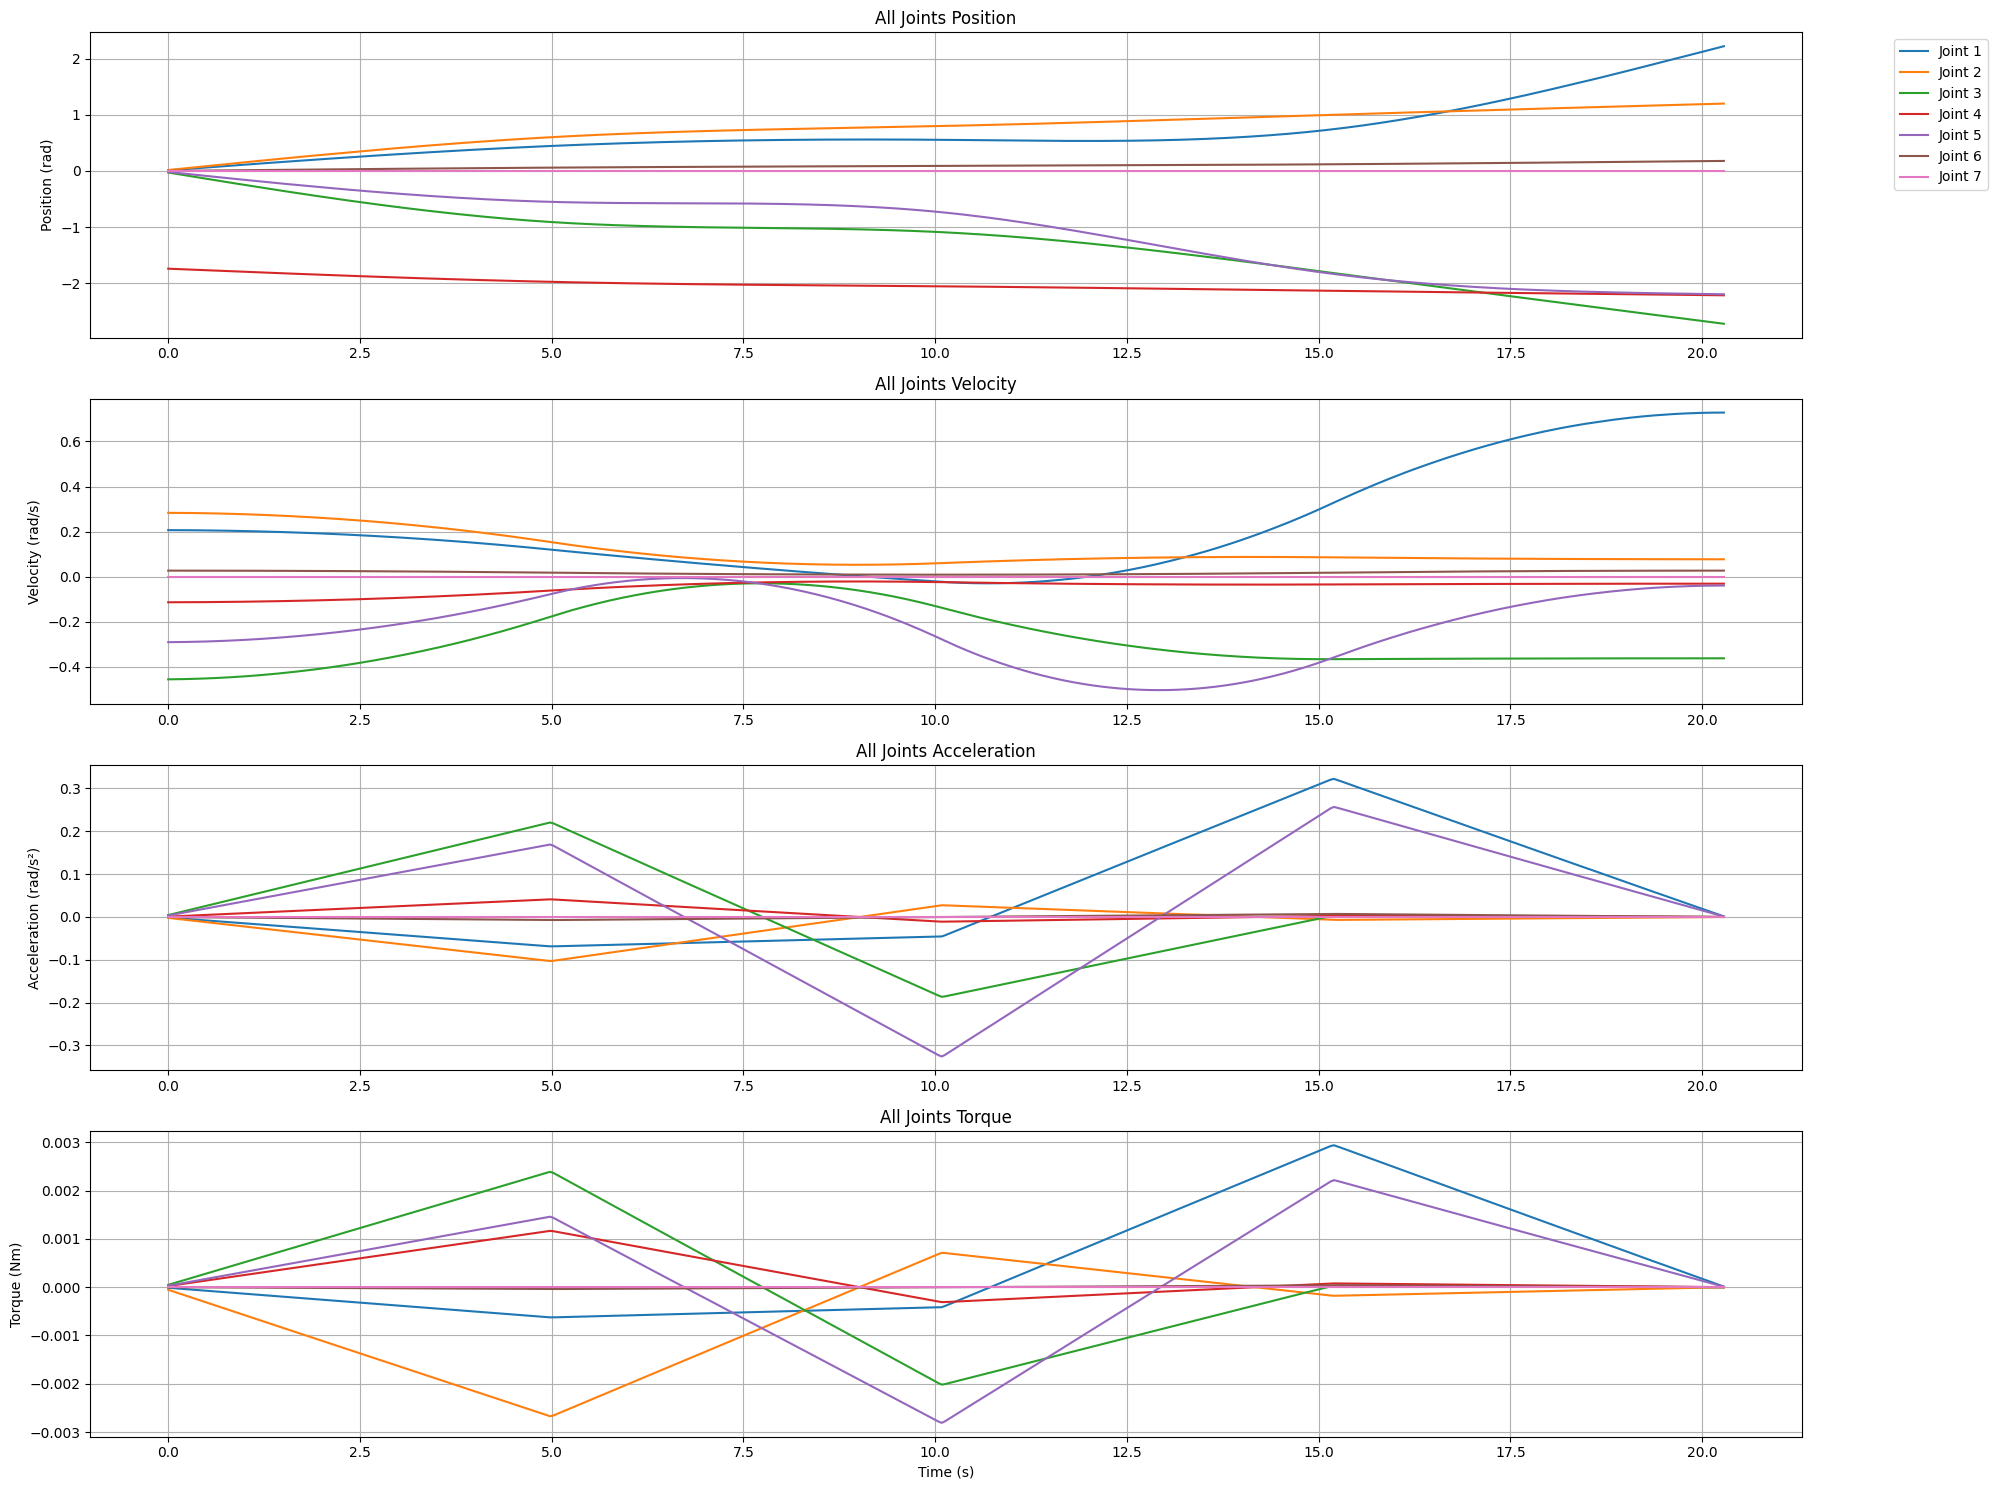
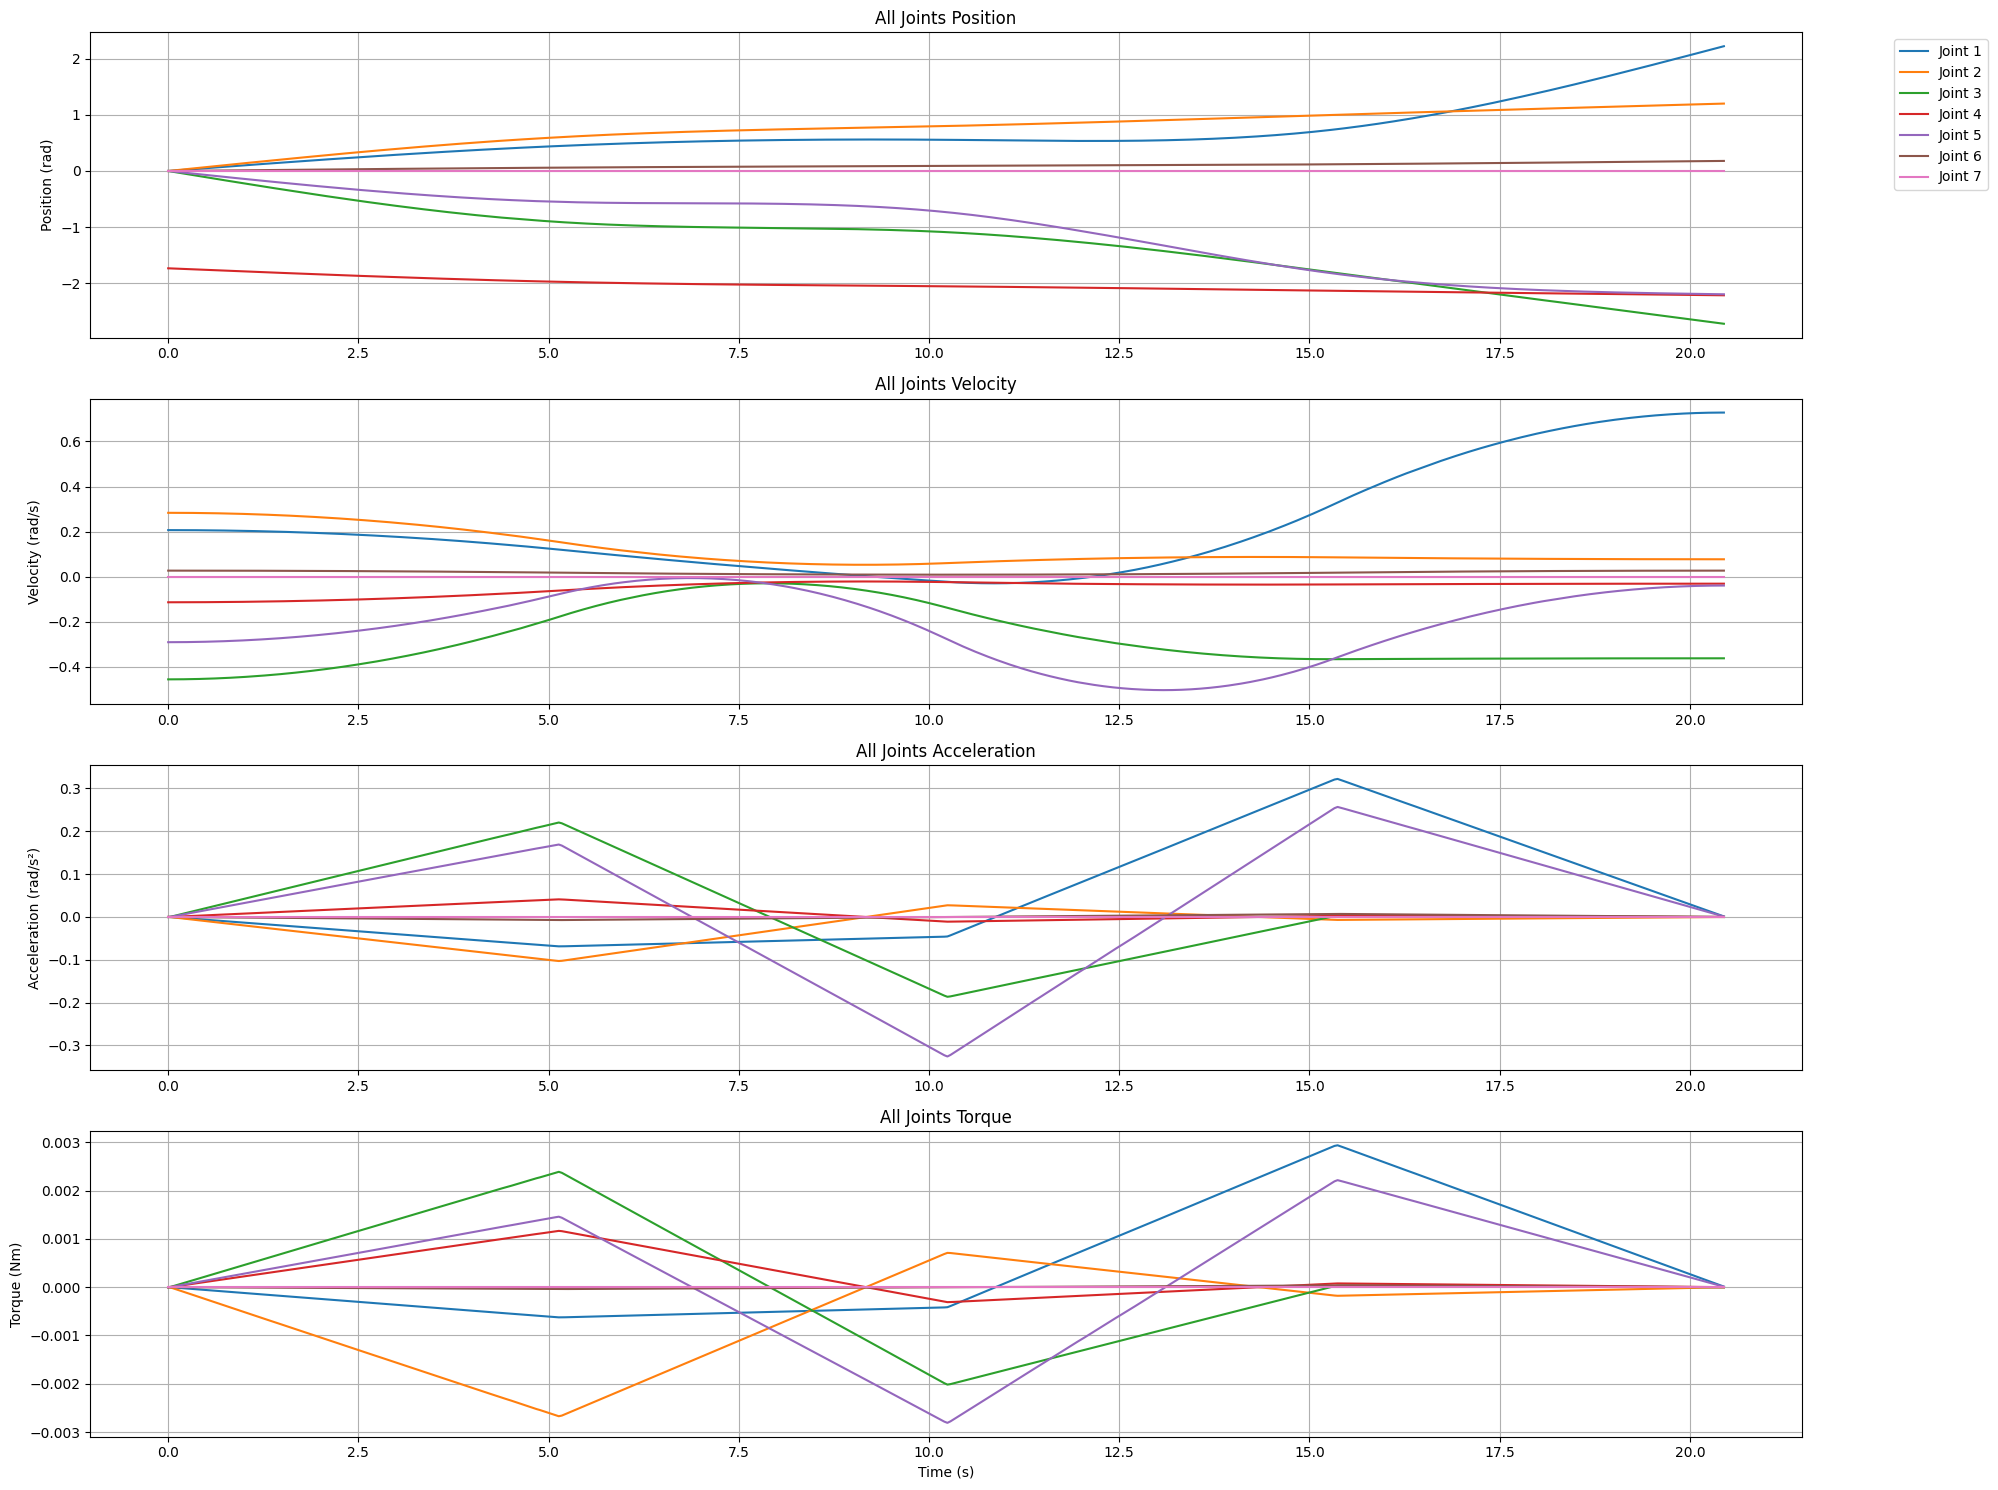
add NSGA-2 method

diff --git a/src/franka_h2/scripts/NSGA-2.py b/src/franka_h2/scripts/NSGA-2.py
@@ -24,6 +24,8 @@ import os
 from fk import cal_fk
 import time
 from ik_geo import franka_IK_EE
+import random
+from collections import defaultdict
 
 class CSI_solver():
     def __init__(self):
@@ -130,6 +132,164 @@ class CSI_solver():
             
         return positions, velocities, t
     
+    def generate_optimized_trajectory(self, q_start, q_end, duration, freq=50):
+        """使用NSGA-II优化生成轨迹"""
+        # NSGA-II参数设置
+        population_size = 50
+        generations = 100
+        crossover_prob = 0.9
+        mutation_prob = 0.1
+        variable_ranges = [ # 各关节速度范围（单位：rad/s）
+        (-2.5, 2.5),    # 关节1
+        (-2.5, 2.5),    # 关节2
+        (-2.5, 2.5),    # 关节3
+        (-2.5, 2.5),    # 关节4
+        (-5.0, 5.0),    # 关节5
+        (-4.0, 4.0),    # 关节6
+        (-5.0, 5.0)     # 关节7
+        ]
+
+        # 目标函数计算
+        def evaluate(individual):
+            """计算单个个体的双目标适应度"""
+            total_smoothness = 0.0
+            total_energy = 0.0
+            T = duration
+
+            # for j in range(7):
+            # 获取关节参数
+            joint_name = self.joint_names
+            params = self.inertia_params[joint_name]
+            I_j = params['inertia_matrix'][2][2]  # 绕Z轴的转动惯量
+            g_j = self.calculate_gravity_torques()[joint_name]
+
+            # 轨迹参数计算
+            delta_q = q_end - q_start
+            v_start = individual
+            
+            # 三次多项式系数计算
+            a2 = (3*delta_q - 2*v_start*T) / T**2
+            a3 = (-2*(delta_q - v_start*T/2)) / T**3
+
+            # 计算平滑性指标（加速度平方积分）
+            integral_acc_sq = 4*a2**2*T + 12*a2*a3*T**2 + 12*a3**2*T**3
+            total_smoothness += integral_acc_sq
+
+            # 计算能耗指标（力矩平方积分）
+            integral_tau_sq = (I_j**2 * integral_acc_sq) + (2*I_j*g_j*(-v_start)) + (g_j**2 * T)
+            total_energy += integral_tau_sq
+
+            return (total_smoothness, total_energy)
+
+        # 遗传算子
+        def crossover(p1, p2):
+            """模拟二进制交叉"""
+            child1, child2 = [], []
+            for i in range(7):
+                beta = np.random.uniform(0.9, 1.1)
+                child1.append(0.5*((1+beta)*p1[i] + (1-beta)*p2[i]))
+                child2.append(0.5*((1-beta)*p1[i] + (1+beta)*p2[i]))
+            return child1, child2
+
+        def mutate(ind):
+            """多项式变异"""
+            mutated = ind.copy()
+            for i in range(7):
+                if random.random() < mutation_prob:
+                    mutated[i] += np.random.normal(0, 0.1)
+                    mutated[i] = np.clip(mutated[i], *variable_ranges[i])
+            return mutated
+
+        # 初始化种群
+        population = [[np.random.uniform(variable_ranges[j][0], variable_ranges[j][1]) for j in range(7)] for _ in range(population_size)]
+
+        # 进化循环
+        for _ in range(generations):
+            # 评估适应度
+            fitness = [evaluate(ind) for ind in population]
+
+            # 非支配排序
+            fronts = []
+            dominated_count = defaultdict(int)
+            dominated_set = defaultdict(list)
+            ranks = {}
+            
+            # 构建支配关系
+            for i, f1 in enumerate(fitness):
+                for j, f2 in enumerate(fitness):
+                    if f1[0] < f2[0] and f1[1] < f2[1]:
+                        dominated_set[i].append(j)
+                        dominated_count[j] += 1
+
+            # 构建前沿
+            current_front = [i for i in range(population_size) if dominated_count[i] == 0]
+            fronts.append(current_front)
+            
+            # 后续前沿
+            next_front = []
+            while current_front:
+                for i in current_front:
+                    for j in dominated_set[i]:
+                        dominated_count[j] -= 1
+                        if dominated_count[j] == 0:
+                            next_front.append(j)
+                fronts.append(next_front)
+                current_front = next_front
+                next_front = []
+
+            # 选择操作（简单截断选择）
+            selected = []
+            for front in fronts:
+                if len(selected) + len(front) <= population_size:
+                    selected.extend(front)
+                else:
+                    remaining = population_size - len(selected)
+                    selected += front[:remaining]
+                    break
+
+            # 生成新种群
+            new_population = [population[i] for i in selected]
+            while len(new_population) < population_size:
+                # 选择父代
+                p1, p2 = random.choices(selected, k=2)
+                # 交叉
+                if random.random() < crossover_prob:
+                    c1, c2 = crossover(population[p1], population[p2])
+                    new_population.extend([c1, c2])
+                # 变异
+                else:
+                    new_population.append(mutate(population[p1]))
+                    new_population.append(mutate(population[p2]))
+            population = new_population[:population_size]
+
+        # 选择最优解（取第一个前沿的第一个解）
+        best_ind = population[0]
+
+        # 生成轨迹数据
+        num_points = int(duration * freq)
+        t = np.linspace(0, duration, num_points)
+        positions = []
+        velocities = []
+        
+        # for j in range(7):
+        v_start = best_ind
+        delta_q = q_end - q_start
+        a2 = (3*delta_q - 2*v_start*duration) / duration**2
+        a3 = (-2*(delta_q - v_start*duration/2)) / duration**3
+        
+        joint_pos = []
+        joint_vel = []
+        for ti in t:
+            pos = q_start + v_start*ti + a2*ti**2 + a3*ti**3
+            vel = v_start + 2*a2*ti + 3*a3*ti**2
+            joint_pos.append(pos)
+            joint_vel.append(vel)
+        positions.append(joint_pos)
+        velocities.append(joint_vel)
+
+        # 转置为时间主维度
+        return np.array(positions).T.tolist(), np.array(velocities).T.tolist(), t
+    
     def calculate_gravity_torques(self):
         """计算各关节重力矩（返回字典形式）"""
         g = 9.81  # 重力加速度
@@ -178,7 +338,7 @@ class CSI_solver():
         for joint_idx in range(len(goal_positions)):
             start = self.current_joint_positions[joint_idx]
             goal = goal_positions[joint_idx]
-            positions, velocities, _ = self.generate_trajectory(start, goal, duration, 50)
+            positions, velocities, _ = self.generate_optimized_trajectory(start, goal, duration, 50)
             all_positions.append(positions)
             all_velocities.append(velocities)
             # trajectory = self.generate_trajectory(start, goal, duration)
@@ -311,29 +471,5 @@ if __name__ == '__main__':
      
   except rospy.ROSInterruptException:
     print("Program interrupted before completion.", file=sym.stderr)
-
-
-
-
-
-
-
-
-
-
-
-
-
-
-
-
-
-
-
-
-
-
-
-
 
 
